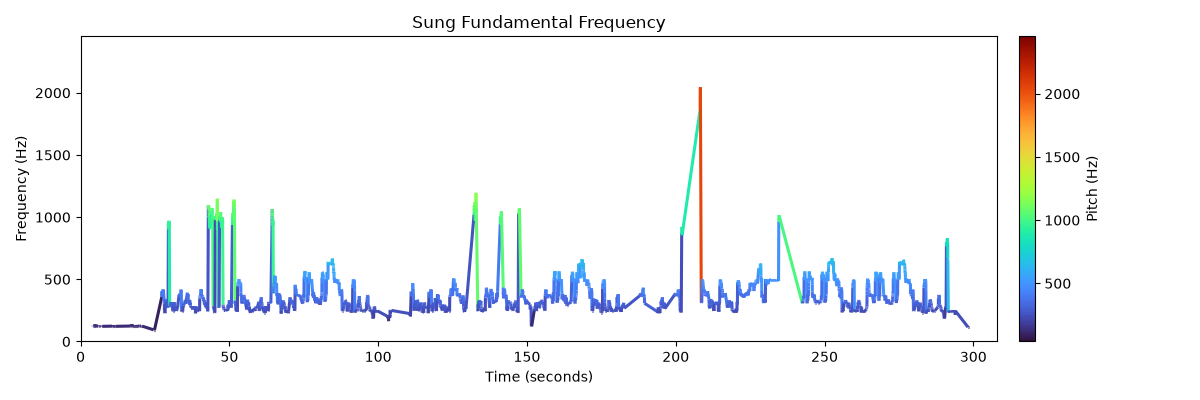
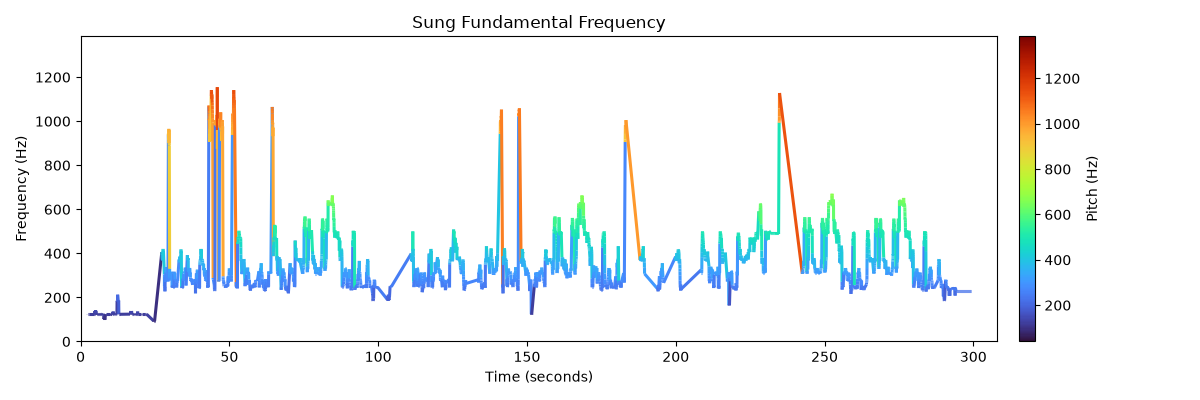
made the audio processor return only the vocal part of the performance, hopefully making it more efficient and accurate in evaluating the performance

diff --git a/audio.py b/audio.py
@@ -117,9 +117,9 @@ class AudioProcessor:
     # Reads audio, creates its plot, and transcribes it for the LLM.
     def process_audio(self, audio_path, plot_path="plot.png"):
 
-        # creates plot
+        voiceover_path = self.extract_voice(audio_path)
         plot = self.create_plot(audio_path, plot_path)
-        waveform, sample_rate = librosa.load(audio_path, sr = 16000, mono = True)
+        waveform, sample_rate = librosa.load(voiceover_path, sr = 16000, mono = True)
 
         # creates transcript
         transcript = self.generate({
